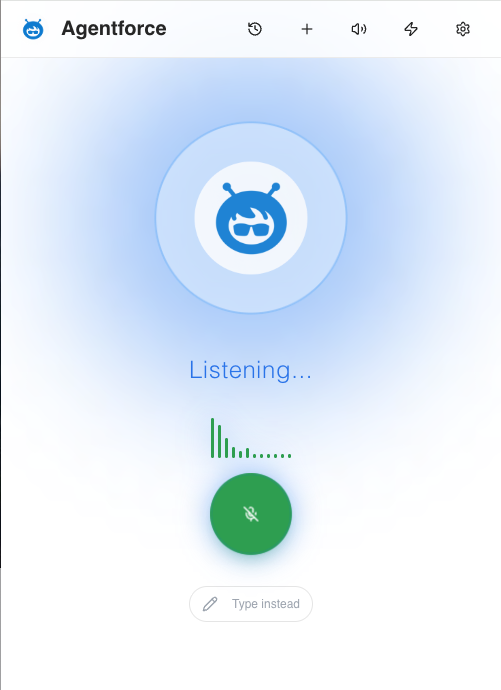
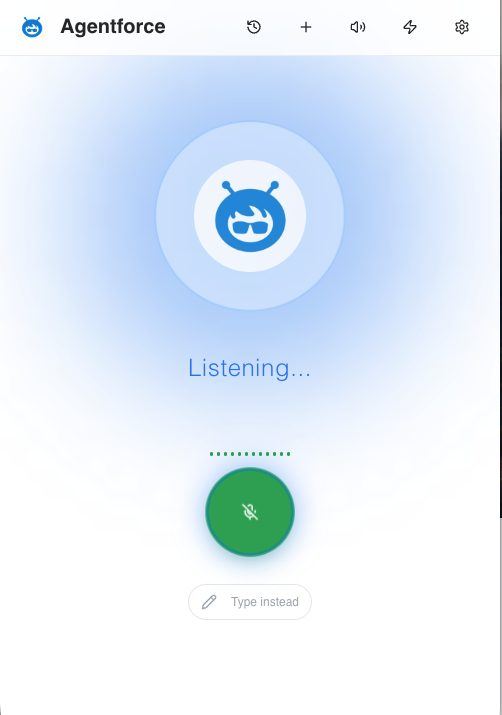
Replace screenshots with 3-state set: ready, listening, thinking

diff --git a/README.md b/README.md
@@ -16,9 +16,9 @@ I built it for my own use across enterprise deals in manufacturing, retail, auto
 
 ---
 
-| Ready | Listening |
-|---|---|
-| ![Ready state — tap the mic to start](docs/screenshot-ready.png) | ![Listening state — live waveform, tap to send](docs/screenshot-listening.png) |
+| Ready | Listening | Thinking |
+|---|---|---|
+| ![Ready state — tap the mic to start](docs/screenshot-ready.png) | ![Listening state — live waveform, tap to send](docs/screenshot-listening.png) | ![Thinking state — agent processing](docs/screenshot-thinking.png) |
 
 ---
 
